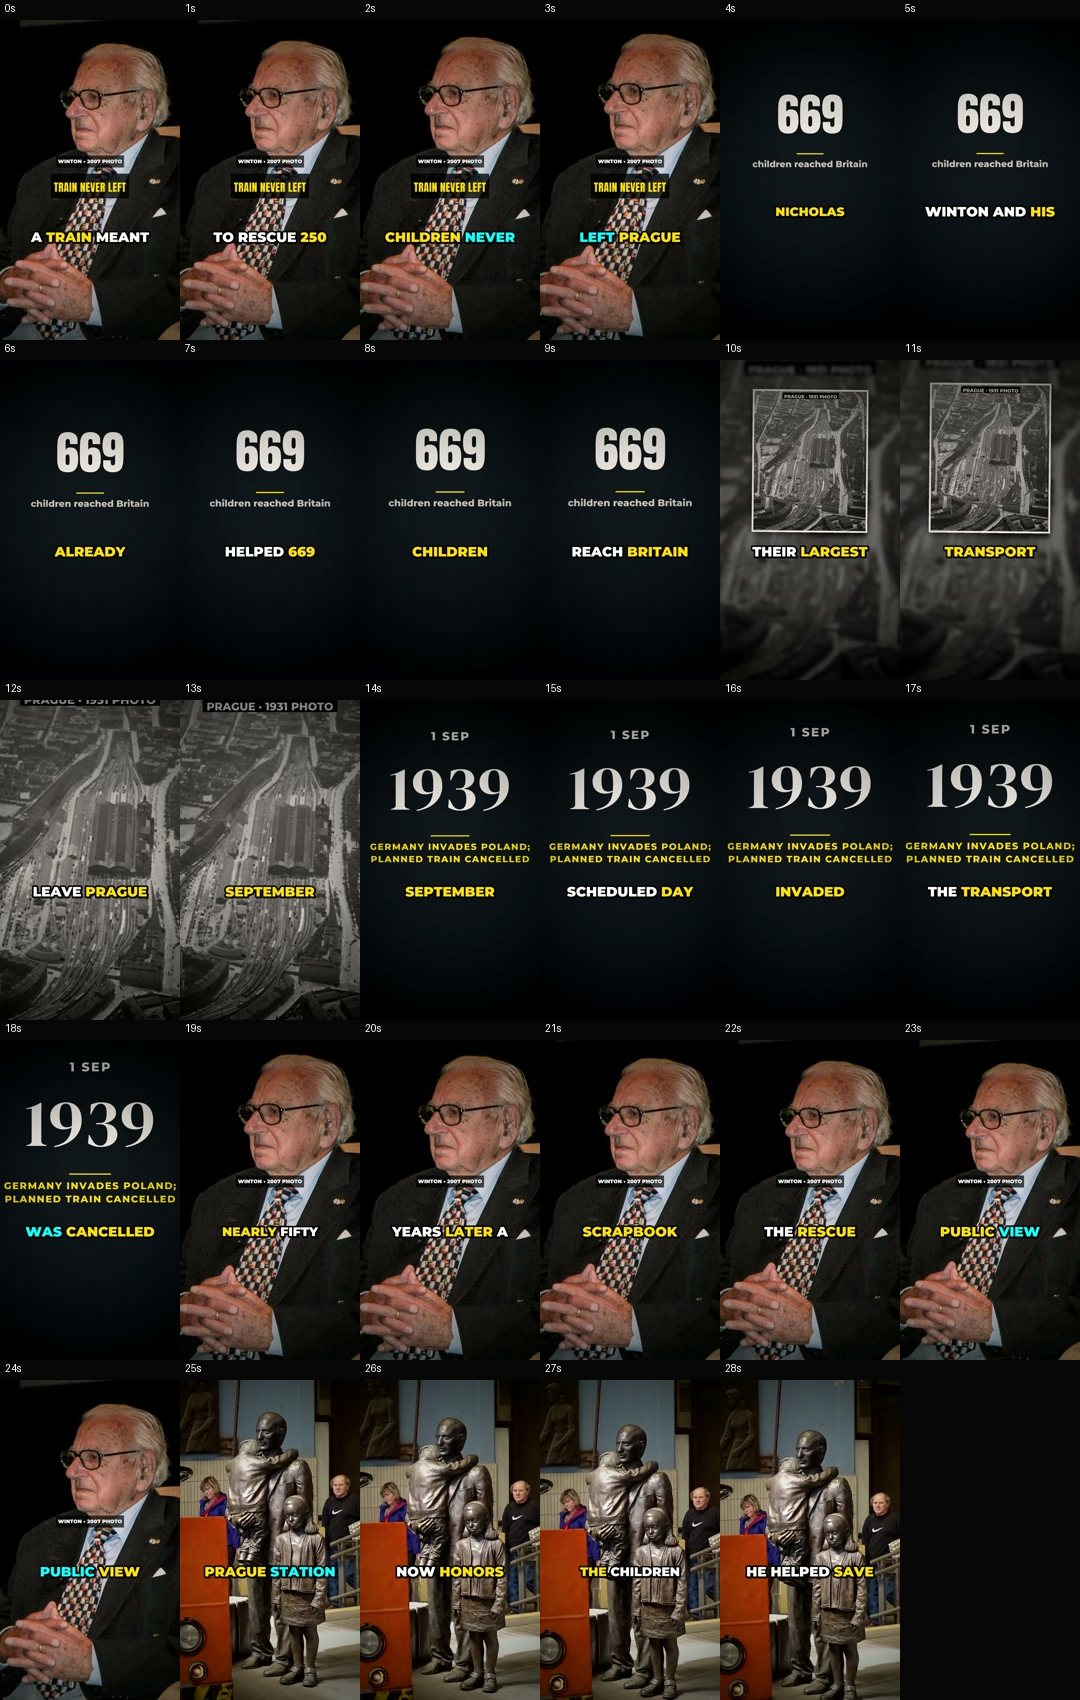
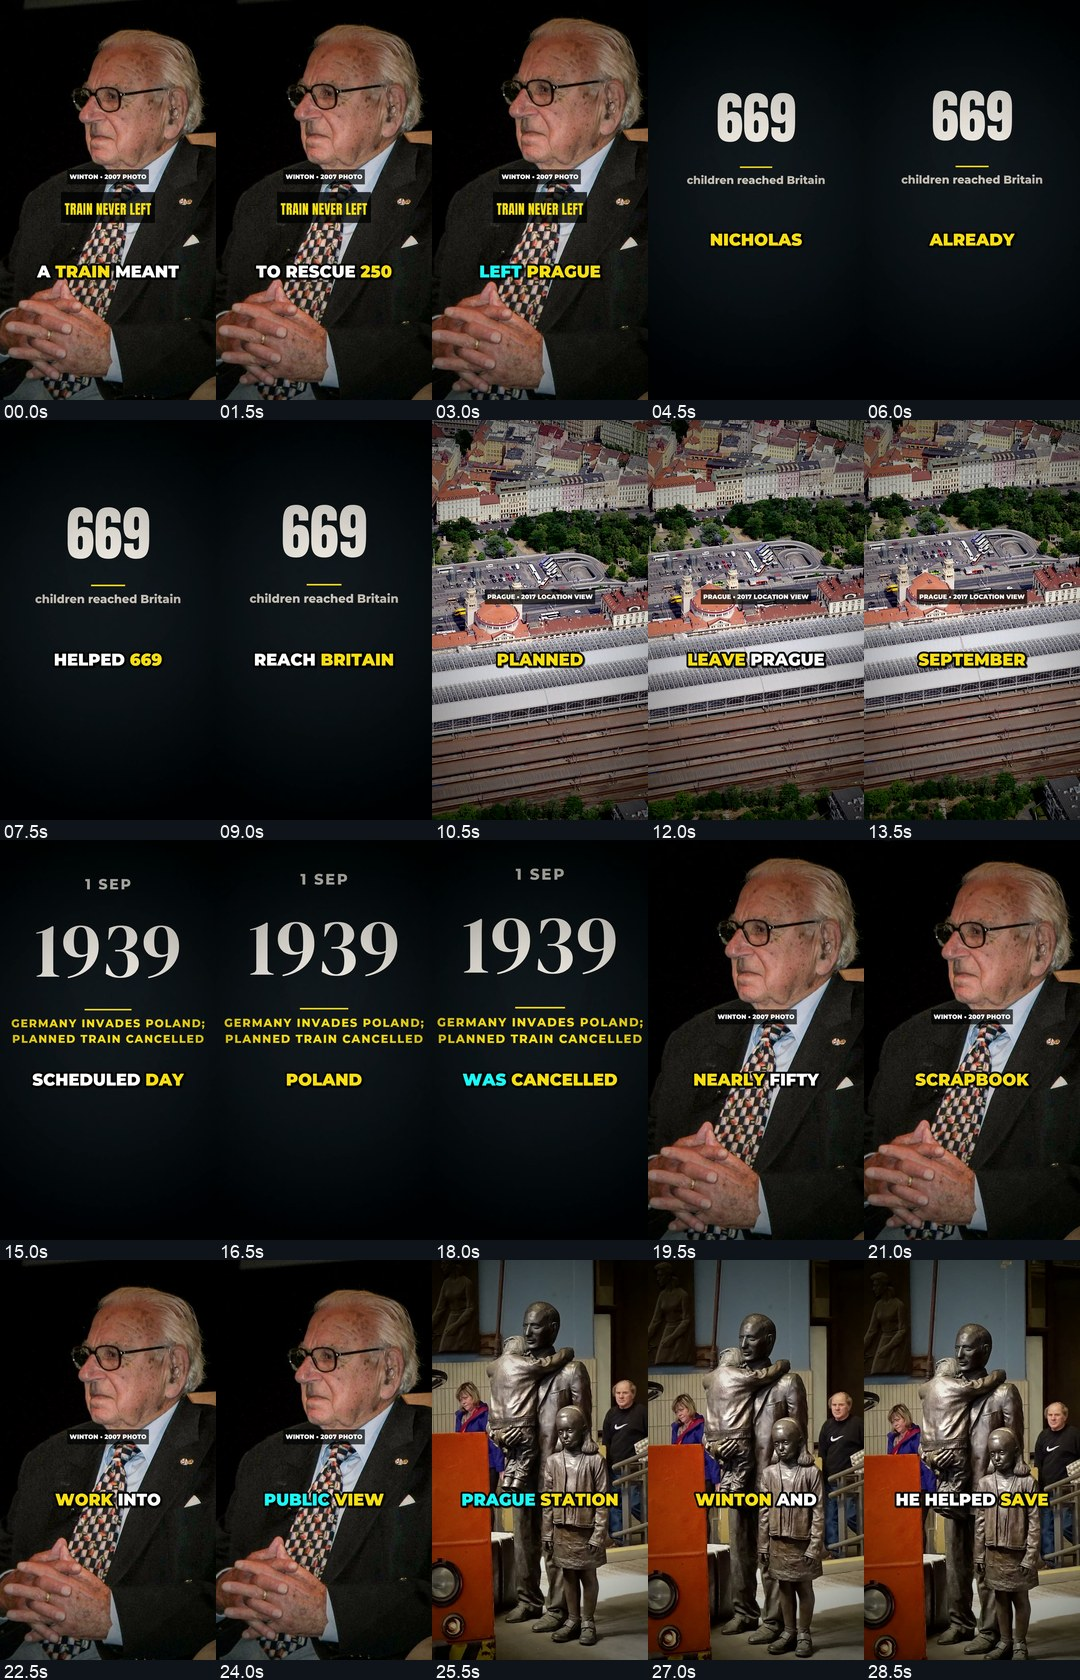
Replace Winton station view with verified 2017 CC0 aerial

diff --git a/content/episodes/ep054/release-prep.md b/content/episodes/ep054/release-prep.md
@@ -2,15 +2,15 @@
 
 **Status:** Local and private. `ep054.mp4` is ignored by Git; no Cloudinary URL, Buffer post or YouTube upload exists for this package. `editorial_hold.json` and the channel-wide `status/scheduling_hold.json` both block scheduling. The withdrawn `ep045` upload `v4rp0oWvgSI` and its historical records remain private and intact.
 
[2 lines of base64/hex data omitted]
 
 | Field | SHA-256 |
 |---|---|
[6 lines of base64/hex data omitted]
 
-`short.yaml` and the manifest both identify `ep054`; the package contains the local Winton and station derivatives, provenance receipt, research, script, visuals, narration and review frames. Manifest asset paths are relative to this package. The generated 1,997-byte description includes all three image credits and direct CC license/source links. `media_binding()` returns the three hashes above; the package has no inherited `publish.json`, `hold.json`, `withdrawal.json`, or `remote.json`. The scheduling guard was directly checked and rejected this package under the current hold.
+`short.yaml` and the manifest both identify `ep054`; the package contains the local Winton and station derivatives, provenance receipt, research, script, visuals, narration and review frames. Manifest asset paths are relative to this package. The generated 2,029-byte description includes all three image credits, direct CC BY license links, and the CC0 image source page. `media_binding()` returns the three hashes above; the package has no inherited `publish.json`, `hold.json`, `withdrawal.json`, or `remote.json`. The scheduling guard was directly checked and rejected this package under the current hold.
 
 **Earliest configured evening slot:** Sunday **4 October 2026, 04:30 IST** (Saturday 3 October, 19:00 US Eastern). The next is 07:00 IST (21:30 Eastern). Use the first only if exact-media native listening, phone playback, independent editorial signoff, hosted hash, queue inspection and controlled scheduling can finish by 04:00 IST. Otherwise use the next available reviewed slot; neither time is booked. Recheck the remote `main` tree for an `ep054` collision before integration, and read back the Buffer post's media URL, channel, title, description and due time before any public send. Keep the old Winton video private.
 
@@ -29,9 +29,10 @@ From the candidate worktree root:
 ```sh
 shasum -a 256 content/episodes/ep054/ep054.mp4 content/episodes/ep054/short.yaml content/episodes/ep054/work/manifest.json
 ffprobe -v error -show_entries format=duration,size -show_entries stream=codec_name,width,height,r_frame_rate -of json content/episodes/ep054/ep054.mp4
-cat content/episodes/ep045/assets/winton-2007-portrait-cover.source.json
+cat content/episodes/ep054/assets/winton-2007-portrait-cover.source.json
+cat content/episodes/ep054/assets/prague-station-2017-crop.source.json
 cat content/episodes/ep045/rights-clear-review.md
-cat content/episodes/ep045/narration-rights-clear-audio-screen.json
+cat content/episodes/ep054/post-rerender-audio-screen.json
 ```
 
-Play `content/episodes/ep054/ep054.mp4` from start to finish with sound and at phone size. Inspect `content/episodes/ep054/rights-clear-opening.jpg`, `rights-clear-sweep.jpg`, and `sheet.jpg` alongside the moving video. The audio-only model screen is a receipt, not a substitute for independent human listening.
+Play `content/episodes/ep054/ep054.mp4` from start to finish with sound and at phone size. Inspect `content/episodes/ep054/rights-clear-opening.jpg`, `rights-clear-sweep.jpg`, and `sheet.jpg` alongside the moving video. The machine audio screen is a receipt, not a substitute for independent human listening. The prior ep045 video screen is historical evidence and does not bind this render.

diff --git a/content/episodes/ep054/research.md b/content/episodes/ep054/research.md
@@ -15,9 +15,9 @@ The replacement does not assert that all 250 boarded or assign a precise wartime
 
 ## Visual provenance and first seconds
 
-- The first frame is a cropped [2007 Nicholas Winton photograph by Hynek Moravec](https://commons.wikimedia.org/wiki/File:Winton_Nicholas_4637.jpg), openly licensed CC BY 3.0, with “TRAIN NEVER LEFT” above it and `WINTON • 2007 PHOTO` visibly burned in. It identifies the subject, not the cancelled 1939 transport or its children. The Commons file records the photographer's own work and CC BY 3.0 grant; the local derivative receipt records the exact crop and hashes.
+- The first frame is a cropped [2007 Nicholas Winton photograph by Hynek Moravec](https://commons.wikimedia.org/wiki/File:Winton_Nicholas_4637.jpg), openly licensed CC BY 3.0, with “TRAIN NEVER LEFT” over his coat and `WINTON • 2007 PHOTO` visibly burned in. It identifies the subject, not the cancelled 1939 transport or its children. The Commons file records the photographer's own work and CC BY 3.0 grant; the local derivative receipt records the exact crop and hashes.
 - The 669 figure and the 1 September invasion are designed fact/date cards. Neither uses stock children or a tank.
-- The Prague Main Station location view is a [1931 Walter Mittelholzer photograph](https://commons.wikimedia.org/wiki/File:Praha_hlavn%C3%AD_n%C3%A1dra%C5%BE%C3%AD_1931.jpg) with “PRAGUE · 1931 PHOTO” burned into a local derivative `assets/prague-station-1931-labeled.jpg`. It does not purport to show the cancelled train.
+- The Prague Main Station location view is a [2017 Jan Helebrant CC0 photograph](https://commons.wikimedia.org/wiki/File:Praha_hlavn%C3%AD_n%C3%A1dra%C5%BE%C3%AD_2017-06-25_03.jpg) with “PRAGUE • 2017 LOCATION VIEW” overlaid throughout the video beat; the center crop is `assets/prague-station-2017-crop.jpg`. It is a modern location view and does not purport to show the cancelled train. Commons records a passed Flickr CC0 review for the image.
 - The final memorial is an explicitly retrospective [2015 image](https://commons.wikimedia.org/wiki/File:Praha_hlavn%C3%AD_n%C3%A1dra%C5%BE%C3%AD,_Winton%C5%AFv_pomn%C3%ADk_a_zavazadlov%C3%BD_voz%C3%ADk_(01).jpg), credited to ŠJů under CC BY 4.0 and cropped to show the complete statue. The source URL and dates are in `short.yaml`; the description labels all historical and retrospective images.
 
 The old `review.json` still describes the prior public version. `work/manifest.json`, `work/speech.json`, and `replacement-review.md` now document this local replacement. Any new upload requires an explicit later decision; this task does not change public metadata or visibility.
